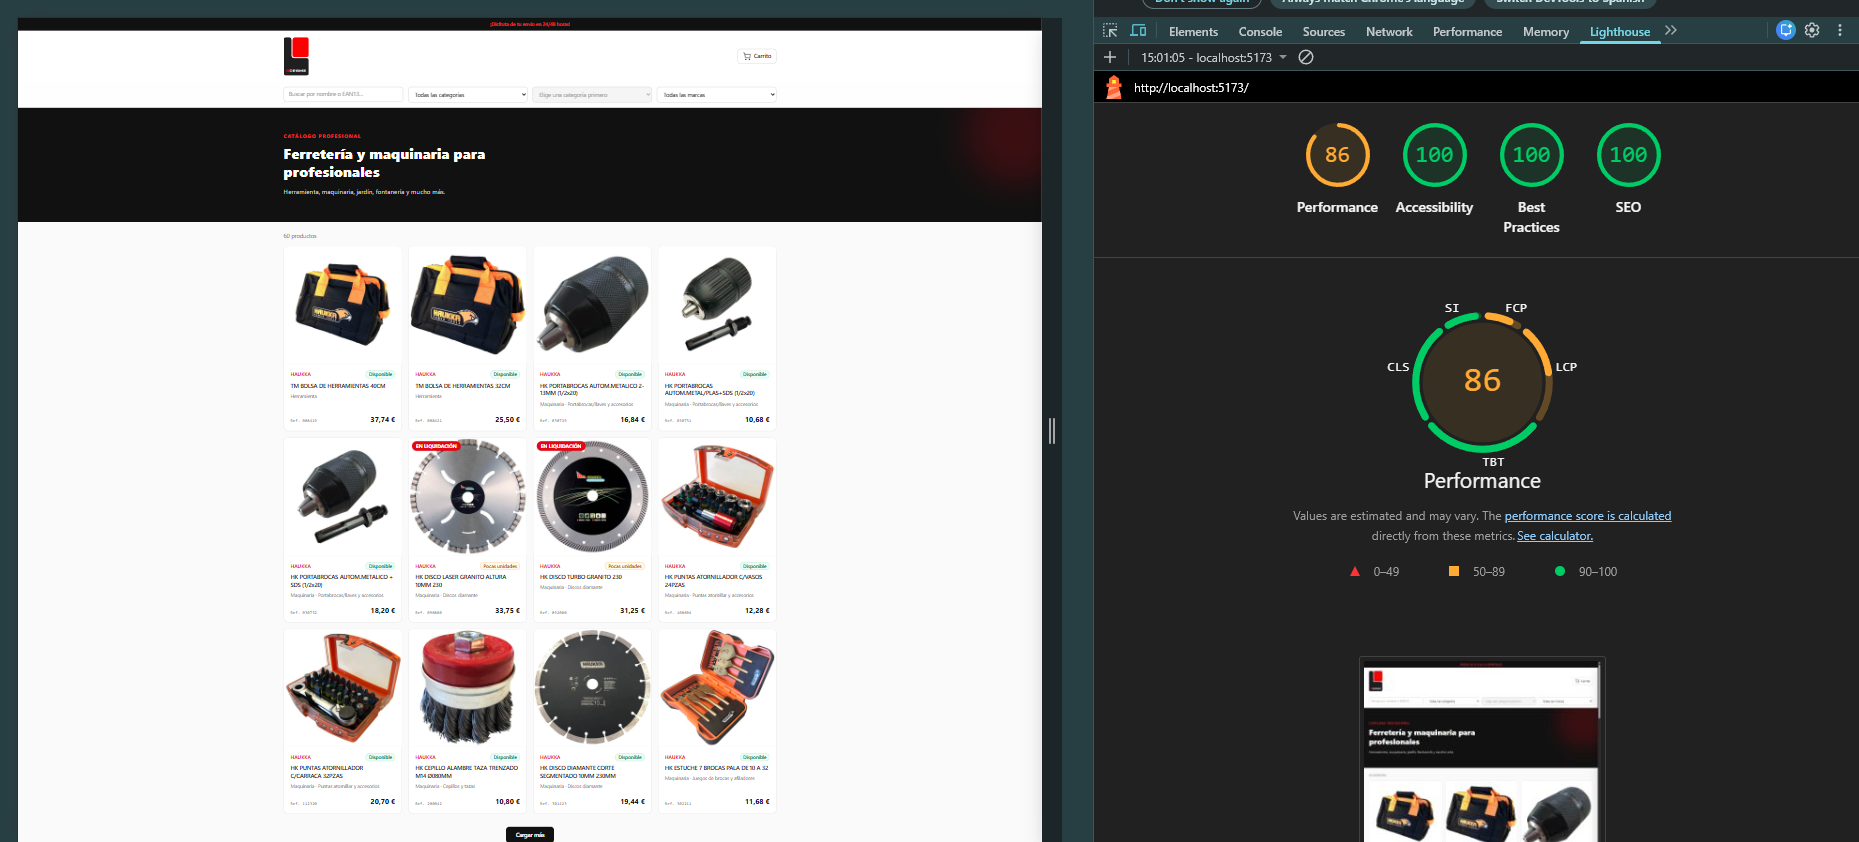
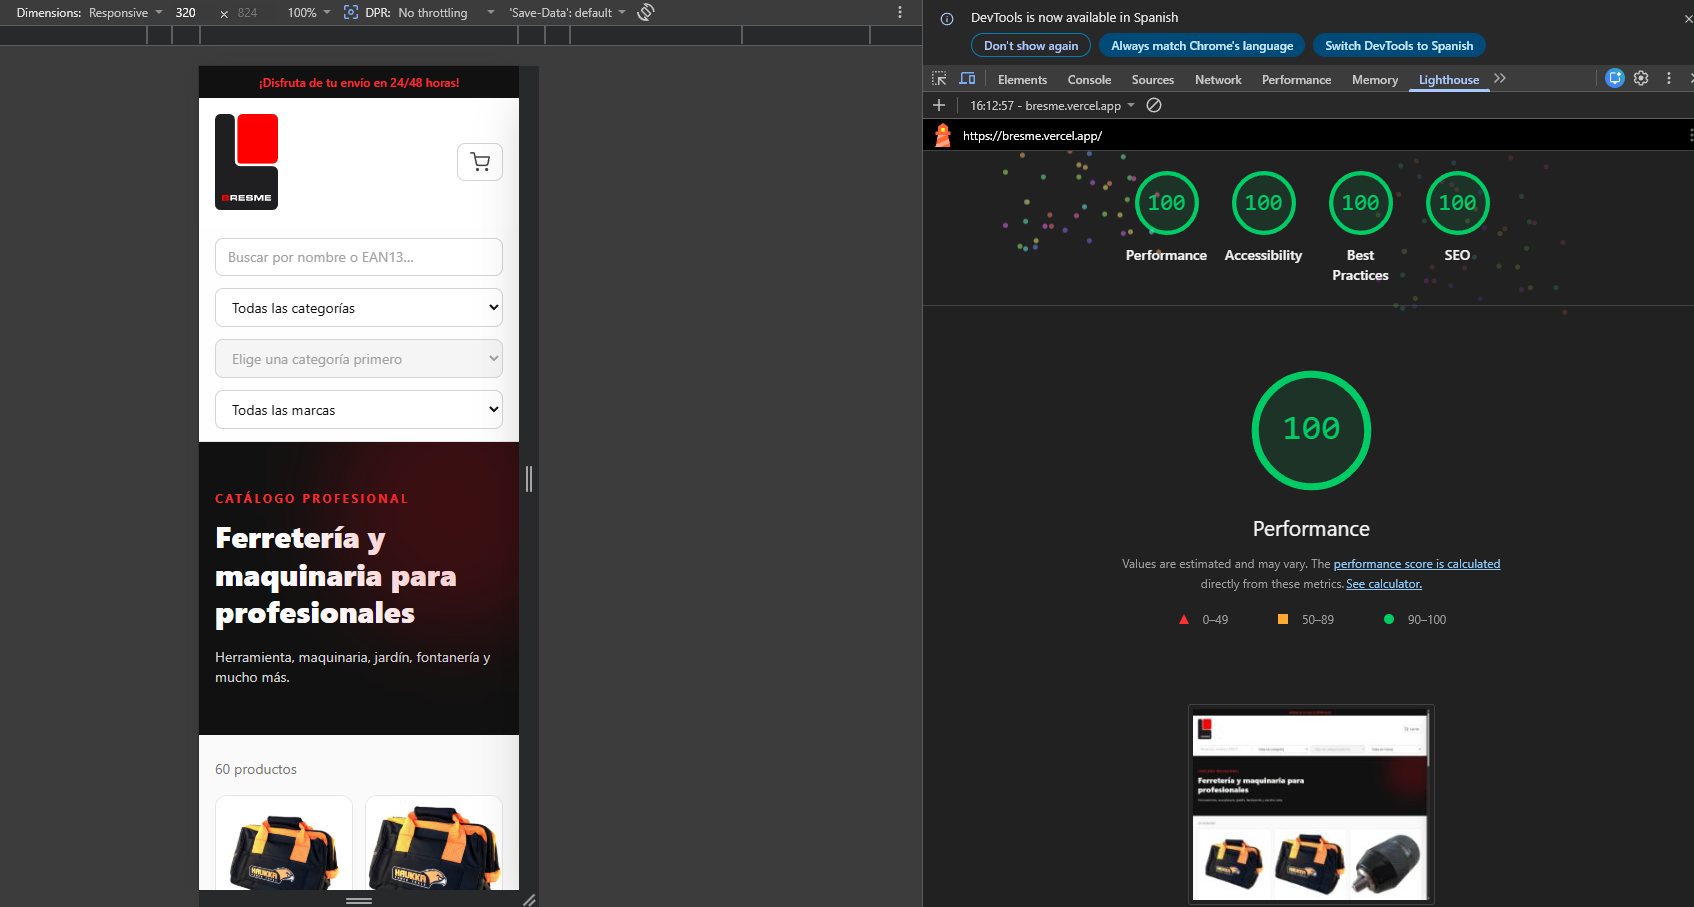
README: Lighthouse 100 en las 4 categorias

diff --git a/README.md b/README.md
@@ -163,7 +163,7 @@ precio); por eso el tipo está en una sola constante (`IVA` en
   seleccionada, lo que resuelve la ambigüedad del valor `"General"`.
 - **Paginación "Cargar más"** en lugar de scroll infinito: más simple, sin
   listeners de scroll y más fácil de verificar.
-- **Responsive**: rejilla de 1 a 4 columnas según el ancho y barra de filtros
+- **Responsive**: rejilla de 2 a 4 columnas según el ancho y barra de filtros
   adaptable.
 
 ### Paleta corporativa
@@ -220,24 +220,23 @@ para reiniciar tras las pruebas).
 
 ## Calidad: accesibilidad, SEO y rendimiento
 
-Auditoría con **Lighthouse** (Chrome DevTools), sobre la vista de catálogo:
+Auditoría con **Lighthouse** (Chrome DevTools) sobre la build de producción
+desplegada en Vercel:
 
+- **Rendimiento: 100**
 - **Accesibilidad: 100**
 - **Buenas prácticas: 100**
 - **SEO: 100**
-- **Rendimiento: 86**
 
 **Accesibilidad.** Etiquetas asociadas a cada control de formulario, foco
 visible, modal con `role="dialog"`/`aria-modal` y cierre con Escape, tarjetas
-operables por teclado y **contraste de color revisado** (ajusté los rojos sobre
-fondo oscuro y los grises de menor contraste para cumplir el ratio mínimo).
+operables por teclado y **contraste de color revisado** para cumplir el ratio
+mínimo (ajusté los rojos sobre fondo oscuro y los grises de menor contraste).
 
-**Rendimiento (86).** La medición se hace en **modo desarrollo**, donde Vite no
-minifica el JavaScript (de ahí los avisos "Minify/Reduce JavaScript"); en la
-**build de producción** ese coste desaparece. El margen restante corresponde a
-las **imágenes de producto**, que se sirven tal cual desde bresme.com sin
-optimizar (no las reescalo ni convierto a WebP para no alterar el material
-original). Ambos puntos son conocidos y de solución directa.
+> Nota: la puntuación se mide sobre la **build de producción** (Vercel /
+> `npm run build`). En modo desarrollo (`npm run dev`) el rendimiento baja
+> porque Vite no minifica el JavaScript; es lo esperado y no afecta a la versión
+> publicada.
 
 ---
 
@@ -471,10 +470,6 @@ hace falta contexto y gusto que la IA no tiene.
 
 ![PWA instalada](capturas/pwa.png)
 
-**Auditoría Lighthouse (puntuaciones)**
+**Auditoría Lighthouse (100 en las cuatro categorías)**
 
-![Lighthouse puntuaciones](capturas/lighthouse.png)
-
-**Auditoría Lighthouse (rendimiento)**
-
-![Lighthouse rendimiento](capturas/lighthouse-performance.png)
+![Lighthouse 100](capturas/lighthouse.png)
